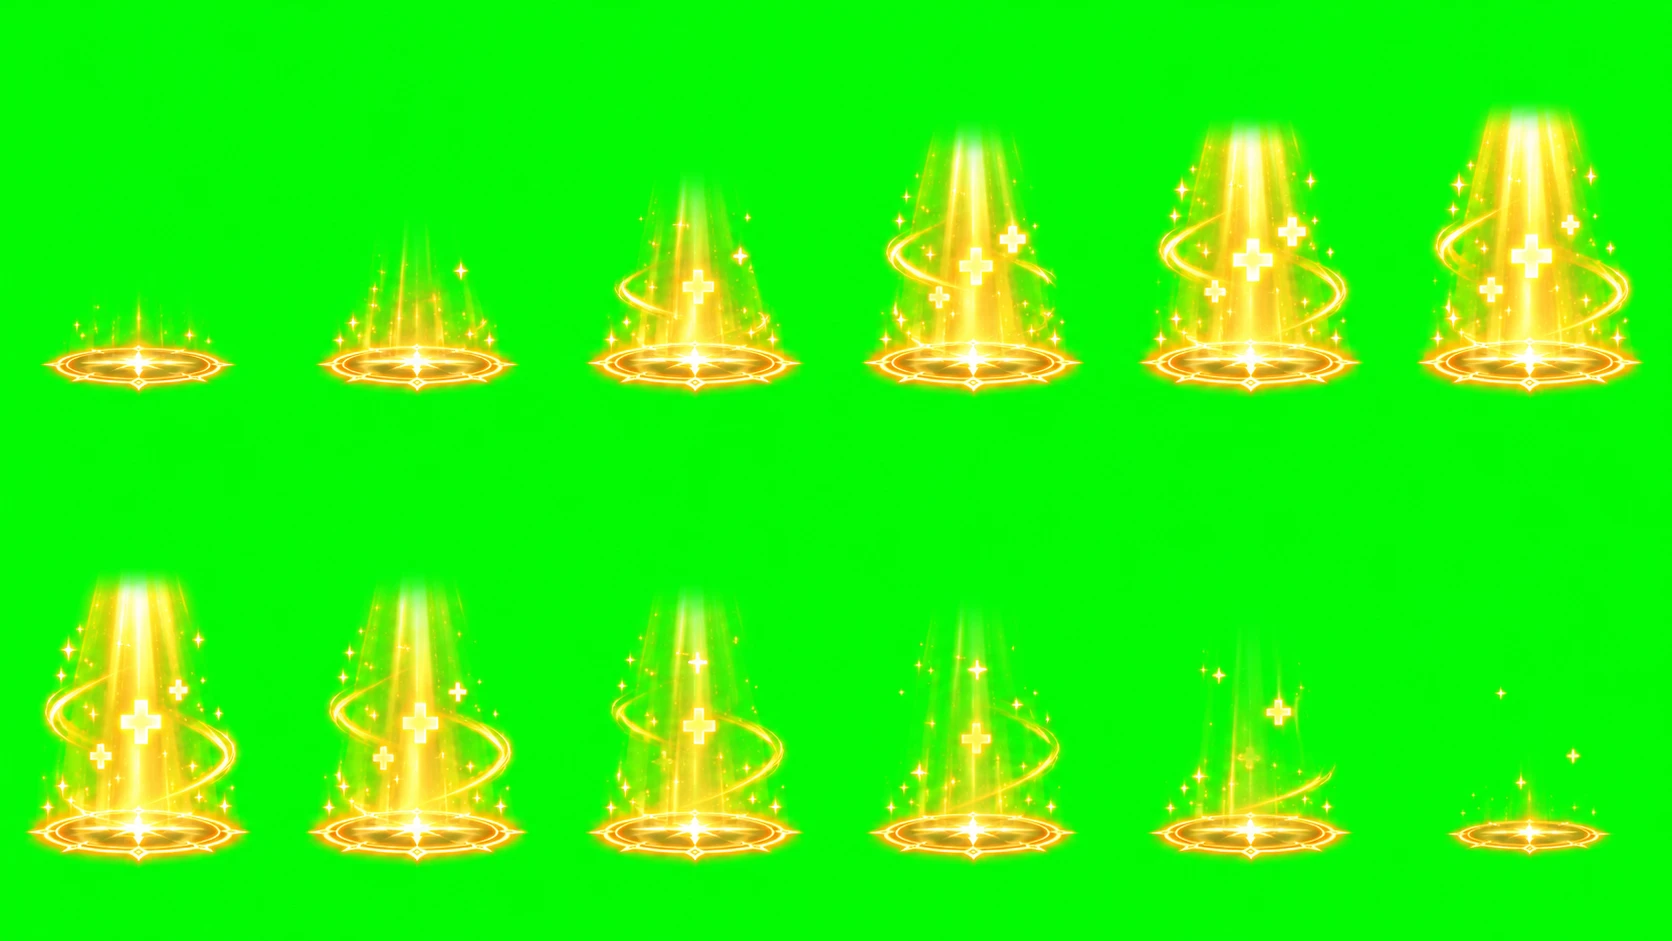
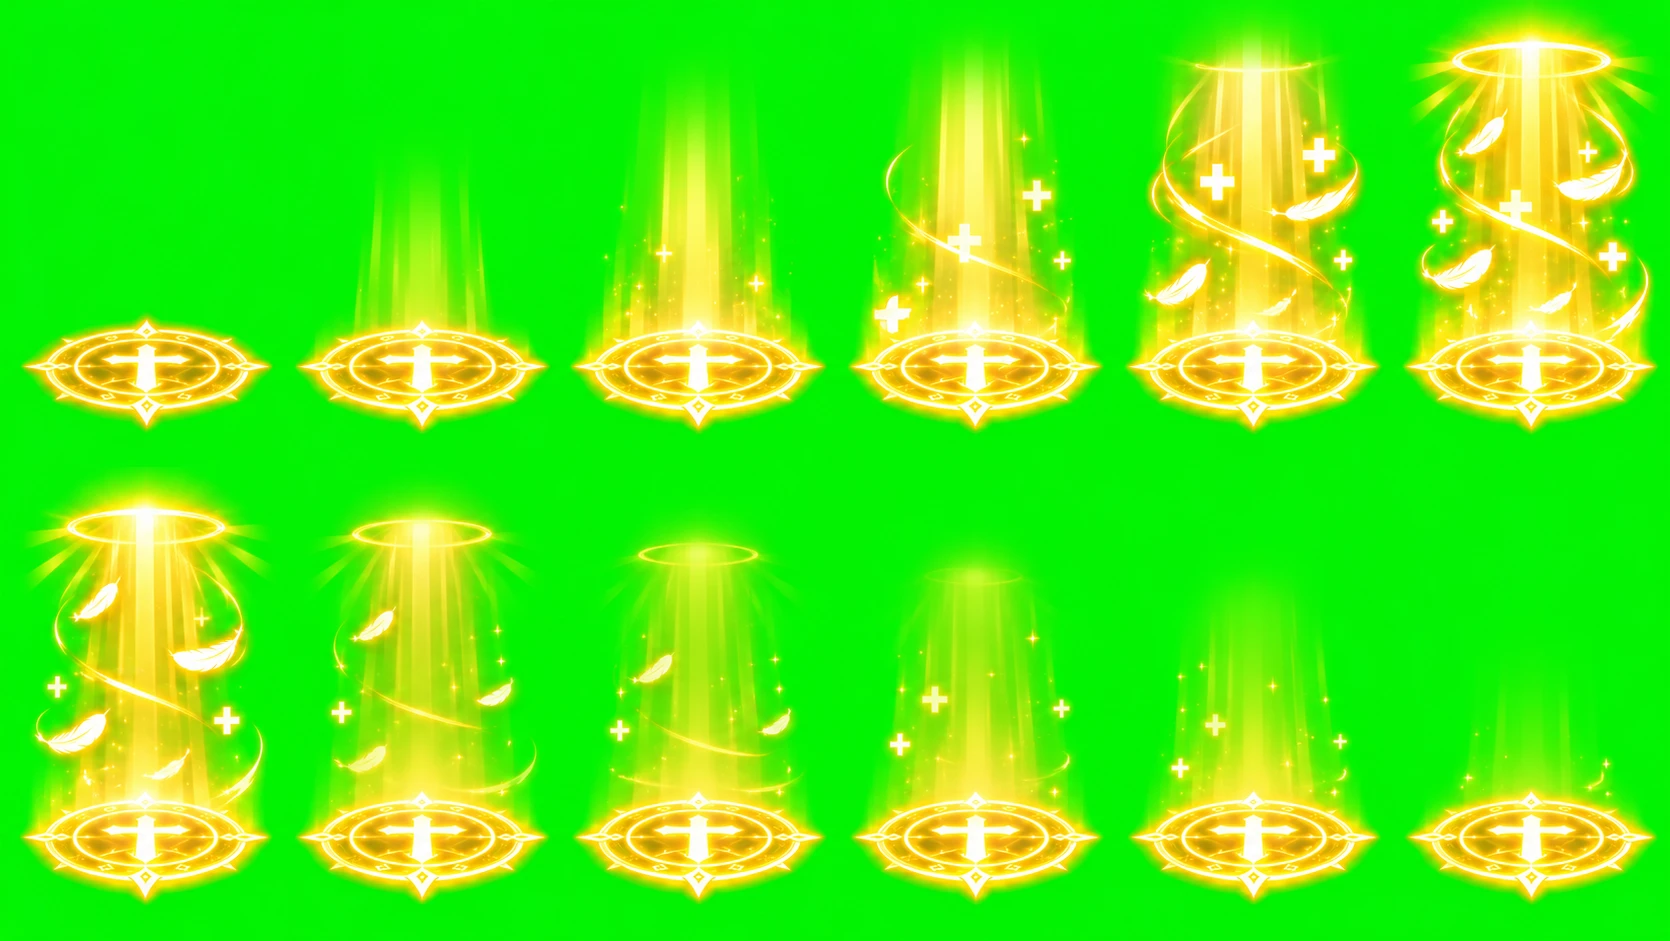
Per-troop effects: Divine Heal, Arcane Shield bubble (loops while shielded), ice prison for Freeze/Arcane Storm; Forest Blessing from the magenta sheet
Claude-Session: https://claude.ai/code/session_019FHBnxKyTVWzaJqkftQpoS

diff --git a/web/js/render.js b/web/js/render.js
@@ -150,7 +150,12 @@
         case 'AuraPulse': if (v) this.fx.push({ k: 'shock', x: v.x, y: v.y, r: (e.radius / m.L) * laneW(e.lane), t: 0, d: 0.7, c: e.kind === 'heal' ? '#7dff8a' : '#b06bff' }); break;
         case 'Knocked': if (v) { if (e.dist >= 20) { v.flyT = 0.5; v.flyFrom = v.x; this.dust(v.x, v.y, 10, 1.3); } v.knockT = 0.35; this.dust(v.x, v.y, 6); this.fx.push({ k: 'streak', x: v.x, y: v.y - v.r, dir: e.player === 0 ? -1 : 1, t: 0, d: 0.35 }); } break;
         case 'UnitLaneChange': if (v) { this.dust(v.x, v.y, 8); this.fx.push({ k: 'burst', x: v.x, y: v.y - v.r, r: v.r * 1.2, t: 0, d: 0.35, c: '#9dff8a' }); } break;
-        case 'Frozen': if (v) this.fx.push({ k: 'burst', x: v.x, y: v.y, r: v.r * 1.1, t: 0, d: 0.35, c: '#bfefff' }); break;
+        case 'Frozen': if (v) {
+          if (e.dur >= 2 && this.fxSheet('fx_ice_prison')) { // prisão de gelo em volta da tropa enquanto estiver congelada
+            const bh = this.bodyH(v.u); this.fx.push({ k: 'anim', key: 'fx_ice_prison', x: v.x, y: v.y + 6, h: bh * 1.45, t: 0, d: e.dur, follow: v, loopFrom: 5, loopDur: 0.6, intro: 0.35, outro: 0.6 });
+          } else this.fx.push({ k: 'burst', x: v.x, y: v.y, r: v.r * 1.1, t: 0, d: 0.35, c: '#bfefff' });
+        } break;
+        case 'Shielded': if (v && this.fxSheet('fx_arcane_shield')) { const bh = this.bodyH(v.u); this.fx.push({ k: 'anim', key: 'fx_arcane_shield', x: v.x, y: v.y + 6, h: bh * 1.35, t: 0, d: e.dur || 8, follow: v, loopFrom: 6, loopDur: 0.8, intro: 0.5, unitShield: v.u, alpha: 0.6 }); } break;
         case 'Blocked': if (v) this.fx.push({ k: 'burst', x: v.x, y: v.y - v.r, r: v.r * 0.9, t: 0, d: 0.3, c: '#ffe68a' }); break;
         case 'UnitDied':
           if (!this.lastCheer) this.lastCheer = [0, 0];
@@ -165,7 +170,10 @@
           break;
         }
         case 'UnitRevived': if (v) { v.x = this.laneX(m, e.x, e.lane); v.born = 0; this.fx.push({ k: 'burst', x: v.x, y: v.y, r: v.r * 2.5, t: 0, d: 0.5, c: '#ffb23a' }); } break;
-        case 'Heal': if (v) this.fx.push({ k: 'burst', x: v.x, y: v.y - v.lift, r: v.r * 1.4, t: 0, d: 0.35, c: '#7cff8a' }); break;
+        case 'Heal': if (v) {
+          if (e.value >= 200 && this.fxSheet('fx_divine_heal')) this.fx.push({ k: 'anim', key: 'fx_divine_heal', x: v.x, y: v.y + 6, h: this.bodyH(v.u) * 1.5, t: -Math.random() * 0.15, d: 1.2, ease: 1, follow: v });
+          else this.fx.push({ k: 'burst', x: v.x, y: v.y - v.lift, r: v.r * 1.4, t: 0, d: 0.35, c: '#7cff8a' });
+        } break;
         case 'SpellCast': {
           const c = SPELL_COLOR[e.id] || '#f7c548';
           const l = ARENA.lanes[e.lane], lh = l.y1 - l.y0, sx = this.laneX(m, e.x, e.lane);
@@ -176,6 +184,7 @@
             skeleton_summon: { x: sx, h: lh * 1.4, d: 1.3 },
             spark: { x: sx, h: lh * 1.0, d: 0.8 },
           };
+          if ((e.id === 'divine_heal' && this.fxSheet('fx_divine_heal')) || (e.id === 'arcane_shield' && this.fxSheet('fx_arcane_shield')) || (e.id === 'freeze' && this.fxSheet('fx_ice_prison'))) break; // efeito em cada tropa
           const anim = SPELL_FX[e.id];
           if (anim && this.fxSheet(anim.key || 'fx_' + e.id)) this.fx.push(Object.assign({ k: 'anim', key: 'fx_' + e.id, y: l.y1 - lh * 0.15, t: 0 }, anim));
           else if (!e.radius) this.fx.push({ k: 'lane', lane: e.lane, t: 0, d: 0.6, c });
@@ -205,6 +214,7 @@
             }
             if (this.fxSheet('fx_orc_rage')) break;
           }
+          if (bab === 'ArcaneStorm' && this.fxSheet('fx_ice_prison')) { this.fx.push({ k: 'lane', lane: e.lane, t: 0, d: 0.6, c: '#9fe6ff' }); break; } // prisão de gelo em cada inimigo (evento Frozen)
           const bkey = { RoyalCommand: 'fx_royal_command', ElvenRain: 'fx_elven_rain', ArmyOfDead: 'fx_army_of_dead', OrcFury: 'fx_orc_fury', ArcaneStorm: 'fx_arcane_storm' }[bab];
           if (bkey && this.fxSheet(bkey)) {
             if (e.lane < 0) { // Comando Real: todas as rotas
@@ -1104,12 +1114,16 @@
           const meta = BB.FX[f.key], sheet = this.fxSheet(f.key);
           if (!sheet) continue;
           let fr = Math.min(meta.n - 1, Math.floor((f.ease ? Math.pow(k, 0.6) : k) * meta.n)); // ease: aparece rápido
-          if (f.loopFrom != null) { // entra uma vez e depois fica em loop nos últimos quadros (escudos)
-            const tt = f.t; fr = tt < f.intro ? Math.floor(tt / f.intro * f.loopFrom) : f.loopFrom + Math.floor(((tt - f.intro) / f.loopDur) * (meta.n - f.loopFrom)) % (meta.n - f.loopFrom);
+          if (f.follow) { if (f.follow.dying >= 0) { f.t = f.d; continue; } f.x = f.follow.x; f.y = f.follow.y + 6; }
+          if (f.unitShield && !(f.unitShield.shield > 0) && f.t > f.intro) { f.t = f.d; continue; }
+          if (f.loopFrom != null) { // entra uma vez e depois fica em loop nos quadros do meio/fim
+            const tt = f.t, lastN = f.outro ? Math.max(f.loopFrom + 1, Math.round(meta.n * 0.6)) : meta.n;
+            if (f.outro && tt > f.d - f.outro) fr = Math.min(meta.n - 1, lastN + Math.floor((tt - (f.d - f.outro)) / f.outro * (meta.n - lastN))); // quebra no fim
+            else fr = tt < f.intro ? Math.floor(tt / f.intro * f.loopFrom) : f.loopFrom + Math.floor(((tt - f.intro) / f.loopDur) * (lastN - f.loopFrom)) % (lastN - f.loopFrom);
             if (f.castleShield != null && this.match && this.match.players[f.castleShield].castleShield <= 0 && tt > f.intro) f.t = f.d; // escudo acabou
           }
           const sc = f.w ? f.w / meta.w : f.h / meta.h, w = meta.w * sc, h = meta.h * sc;
-          g.save(); g.translate(f.x, f.y); if (f.flip) g.scale(-1, 1);
+          g.save(); g.translate(f.x, f.y); if (f.flip) g.scale(-1, 1); if (f.alpha) g.globalAlpha = f.alpha;
           g.drawImage(sheet, meta.vert ? 0 : fr * meta.w, meta.vert ? fr * meta.h : 0, meta.w, meta.h, -w / 2, -h, w, h);
           g.restore();
         } else if (f.k === 'lane') {

diff --git a/web/js/sim.js b/web/js/sim.js
@@ -703,7 +703,7 @@
           for (const e of this.units) {
             if (e.hp <= 0 || e.owner === p.index || e.lane !== lane) continue;
             if (r > 0 && Math.abs(e.x - center) > r) continue;
-            if (def.spell === 'Stun') e.stun = Math.max(e.stun, def.spellDuration);
+            if (def.spell === 'Stun') { e.stun = Math.max(e.stun, def.spellDuration); this.emit('Frozen', e.owner, { unitId: e.id, lane, x: e.x, dur: def.spellDuration }); }
             else { e.poisonDps = Math.max(e.poisonTime > 0 ? e.poisonDps : 0, value); e.poisonTime = def.spellDuration; }
           }
           break;
@@ -716,7 +716,7 @@
             if (a.hp <= 0 || a.owner !== p.index || a.lane !== lane) continue;
             if (r > 0 && Math.abs(a.x - center) > r) continue;
             if (def.spell === 'Heal') { a.hp = Math.min(a.maxHp, a.hp + value); this.emit('Heal', p.index, { unitId: a.id, lane, x: a.x, value }); }
-            else { a.shield = Math.max(a.shield, value); a.shieldTime = def.spellDuration; }
+            else { a.shield = Math.max(a.shield, value); a.shieldTime = def.spellDuration; this.emit('Shielded', p.index, { unitId: a.id, lane, x: a.x, dur: def.spellDuration }); }
           }
           break;
         }
@@ -753,7 +753,7 @@
           break;
         }
         case 'ArcaneStorm': // Tempestade: congela todos os inimigos da rota
-          for (const u of this.units) if (u.hp > 0 && u.owner !== p.index && u.lane === l) { u.stun = Math.max(u.stun, b.duration || 4); this.emit('Frozen', u.owner, { unitId: u.id, lane: l, x: u.x }); }
+          for (const u of this.units) if (u.hp > 0 && u.owner !== p.index && u.lane === l) { u.stun = Math.max(u.stun, b.duration || 4); this.emit('Frozen', u.owner, { unitId: u.id, lane: l, x: u.x, dur: b.duration || 4 }); }
           break;
       }
       p.baronCharge = 0;

diff --git a/web/js/grids.js b/web/js/grids.js
@@ -594,8 +594,8 @@ Object.assign(BB.SPRITES = BB.SPRITES || {}, {
 });
 Object.assign(BB.FX = BB.FX || {}, {
  "fx_arcane_shield": {
-  "w": 336,
-  "h": 226,
+  "w": 267,
+  "h": 282,
   "n": 12,
   "src": "img/units/fx_arcane_shield_g.webp"
  },
@@ -606,8 +606,8 @@ Object.assign(BB.FX = BB.FX || {}, {
   "src": "img/units/fx_arrow_rain_g.webp"
  },
  "fx_divine_heal": {
-  "w": 232,
-  "h": 284,
+  "w": 193,
+  "h": 304,
   "n": 12,
   "src": "img/units/fx_divine_heal_g.webp"
  },
@@ -622,6 +622,12 @@ Object.assign(BB.FX = BB.FX || {}, {
   "h": 232,
   "n": 12,
   "src": "img/units/fx_freeze_g.webp"
+ },
+ "fx_ice_prison": {
+  "w": 270,
+  "h": 304,
+  "n": 12,
+  "src": "img/units/fx_ice_prison_g.webp"
  },
  "fx_imperial_shield": {
   "w": 321,
@@ -672,7 +678,7 @@ Object.assign(BB.FX = BB.FX || {}, {
   "src": "img/units/fx_sylvan_blessing_g.webp"
  },
  "fx_sylvan_heal": {
-  "w": 276,
+  "w": 274,
   "h": 304,
   "n": 12,
   "src": "img/units/fx_sylvan_heal_g.webp"
